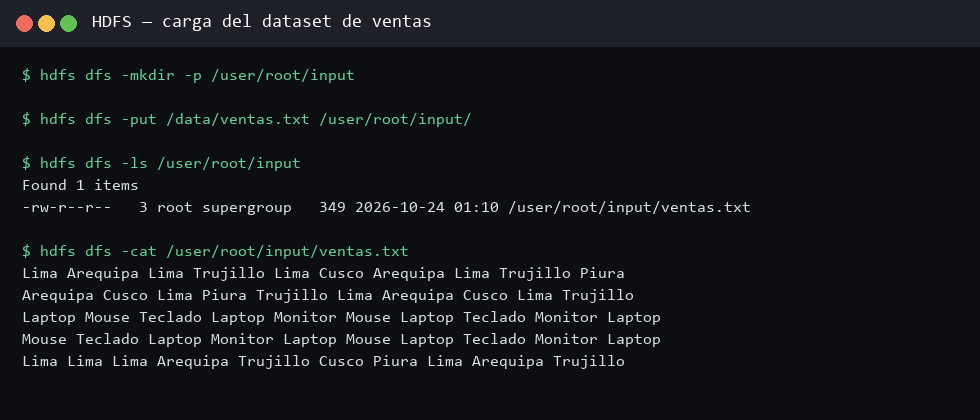
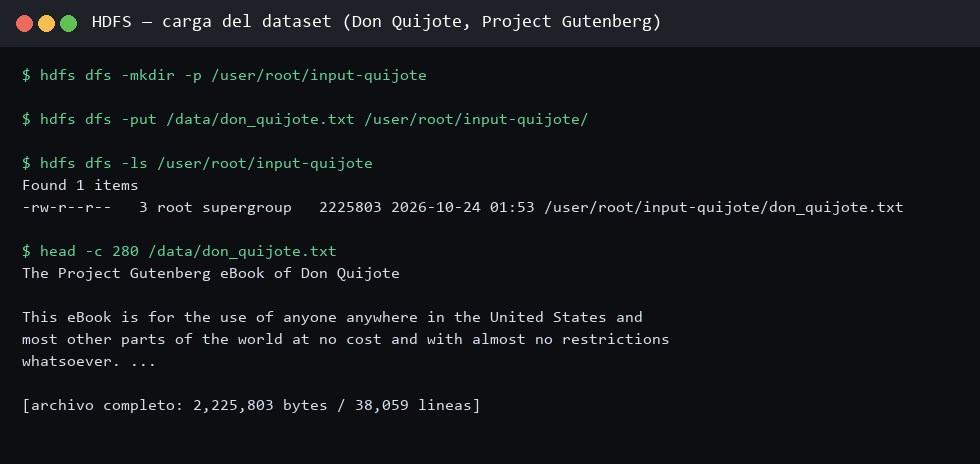
Swap toy dataset for real-size Don Quijote wordcount run (2.2MB, 39755 unique words)

diff --git a/evidence/build_doc.py b/evidence/build_doc.py
@@ -149,11 +149,11 @@ for c in hdr:
             r.font.color.rgb = RGBColor(0xFF, 0xFF, 0xFF)
 
 rows = [
-    ("Sample", "Definir la muestra de datos a usar", "Dataset sintético de ventas (ciudad + producto) cargado como ventas.txt, representativo para probar el pipeline sin requerir volumen masivo real."),
+    ("Sample", "Definir la muestra de datos a usar", "Se probó primero con un dataset sintético pequeño (ventas por ciudad/producto) para validar el pipeline, y luego se reemplazó por una muestra real de volumen significativo: el texto completo de Don Quijote de la Mancha (Project Gutenberg, dominio público), 2.2 MB / 38,059 líneas."),
     ("Explore", "Explorar estructura y disponibilidad de los datos/recursos", "Verificación de que los 5 servicios del cluster (NameNode, DataNode, ResourceManager, NodeManager, HistoryServer) estuvieran activos (docker compose ps, jps) antes de cargar datos."),
     ("Modify", "Preparar/transformar datos y entorno para el análisis", "Ajuste de la configuración de recursos (hadoop.env): la primera corrida quedó colgada en reduce 0% porque se pidieron 8192 MB para el reducer en un nodo de 8192 MB de capacidad total; se corrigió a 1024/1536 MB para que YARN pudiera asignar el contenedor."),
-    ("Model", "Aplicar el modelo/algoritmo de procesamiento", "Ejecución del job MapReduce wordcount sobre HDFS vía YARN (hadoop jar ... wordcount)."),
-    ("Assess", "Evaluar el resultado obtenido", "Lectura del resultado final en HDFS (part-r-00000) y validación de los contadores del job (Map input records=5, Reduce output records=9, Job completed successfully)."),
+    ("Model", "Aplicar el modelo/algoritmo de procesamiento", "Ejecución del job MapReduce wordcount sobre HDFS vía YARN (hadoop jar ... wordcount) sobre las 38,059 líneas del texto."),
+    ("Assess", "Evaluar el resultado obtenido", "Lectura del resultado final en HDFS (part-r-00000) y validación de los contadores del job (Map input records=38,059, Reduce output records=39,755 palabras únicas, Job completed successfully)."),
 ]
 for a, b_, c_ in rows:
     row = table.add_row().cells
@@ -200,10 +200,11 @@ add_image(doc, f"{EV}/img_02_jps.png",
           "Figura 2. NameNode, DataNode, ResourceManager y NodeManager activos.")
 
 h2(doc, "4.4 Carga de datos en HDFS")
-body(doc, "Se crea el directorio de trabajo en HDFS y se sube el dataset de ventas (ciudad y producto por "
-          "transacción) para ser procesado por el job MapReduce.")
+body(doc, "Se crea el directorio de trabajo en HDFS y se sube un dataset de volumen real: el texto completo "
+          "de 'Don Quijote de la Mancha' (edición en español de Project Gutenberg, dominio público), "
+          "2,225,803 bytes (2.2 MB) en 38,059 líneas, para ser procesado por el job MapReduce.")
 add_image(doc, f"{EV}/img_03_hdfs.png",
-          "Figura 3. Dataset ventas.txt replicado y disponible en HDFS.")
+          "Figura 3. Dataset don_quijote.txt (2.2 MB) replicado y disponible en HDFS.")
 
 h2(doc, "4.5 Incidente de configuración y corrección")
 body(doc,
@@ -216,15 +217,23 @@ body(doc,
 
 h2(doc, "4.6 Ejecución del job MapReduce (wordcount) vía YARN")
 add_image(doc, f"{EV}/img_04_job.png",
-          "Figura 4. Job enviado a YARN, map 100% / reduce 100%, completado exitosamente.")
+          "Figura 4. Job sobre las 38,059 líneas del texto: map 100% / reduce 100%, completado exitosamente.")
+body(doc,
+     "El job procesó 38,059 registros de entrada (líneas) y emitió 389,656 pares clave-valor en la fase "
+     "Map (una por cada palabra encontrada). La fase Combine redujo eso a 39,755 claves únicas antes de "
+     "enviarlas por la red al reducer (Reduce shuffle bytes=601,995, frente a Map output bytes=3,740,265 "
+     "sin combinar) — evidencia directa de por qué el combiner importa en Hadoop: reduce el tráfico de red "
+     "entre las fases Map y Reduce.")
 
 h2(doc, "4.7 Resultado final")
 add_image(doc, f"{EV}/img_05_result.png",
-          "Figura 5. Conteo final por ciudad y producto, leído directamente desde HDFS.")
+          "Figura 5. Top 15 palabras más frecuentes, de un total de 39,755 palabras únicas, leído desde HDFS.")
 body(doc,
-     "Lima concentra la mayor cantidad de menciones (11) entre las ciudades y Laptop es el producto con más "
-     "menciones (8), lo cual, en un escenario real de ventas, se traduciría en priorizar inventario y "
-     "logística para esa ciudad y ese producto.")
+     "Las palabras más frecuentes son artículos, preposiciones y conjunciones ('que', 'de', 'y', 'la', 'a', "
+     "'el'...), lo esperable en cualquier texto largo en español (stopwords). En un caso de negocio real, "
+     "este mismo job —sin cambiar una línea de código— se aplicaría para contar términos relevantes "
+     "(productos, quejas, menciones de marca) sobre millones de reseñas o tickets de soporte en vez de un "
+     "libro.")
 
 doc.add_page_break()
 
